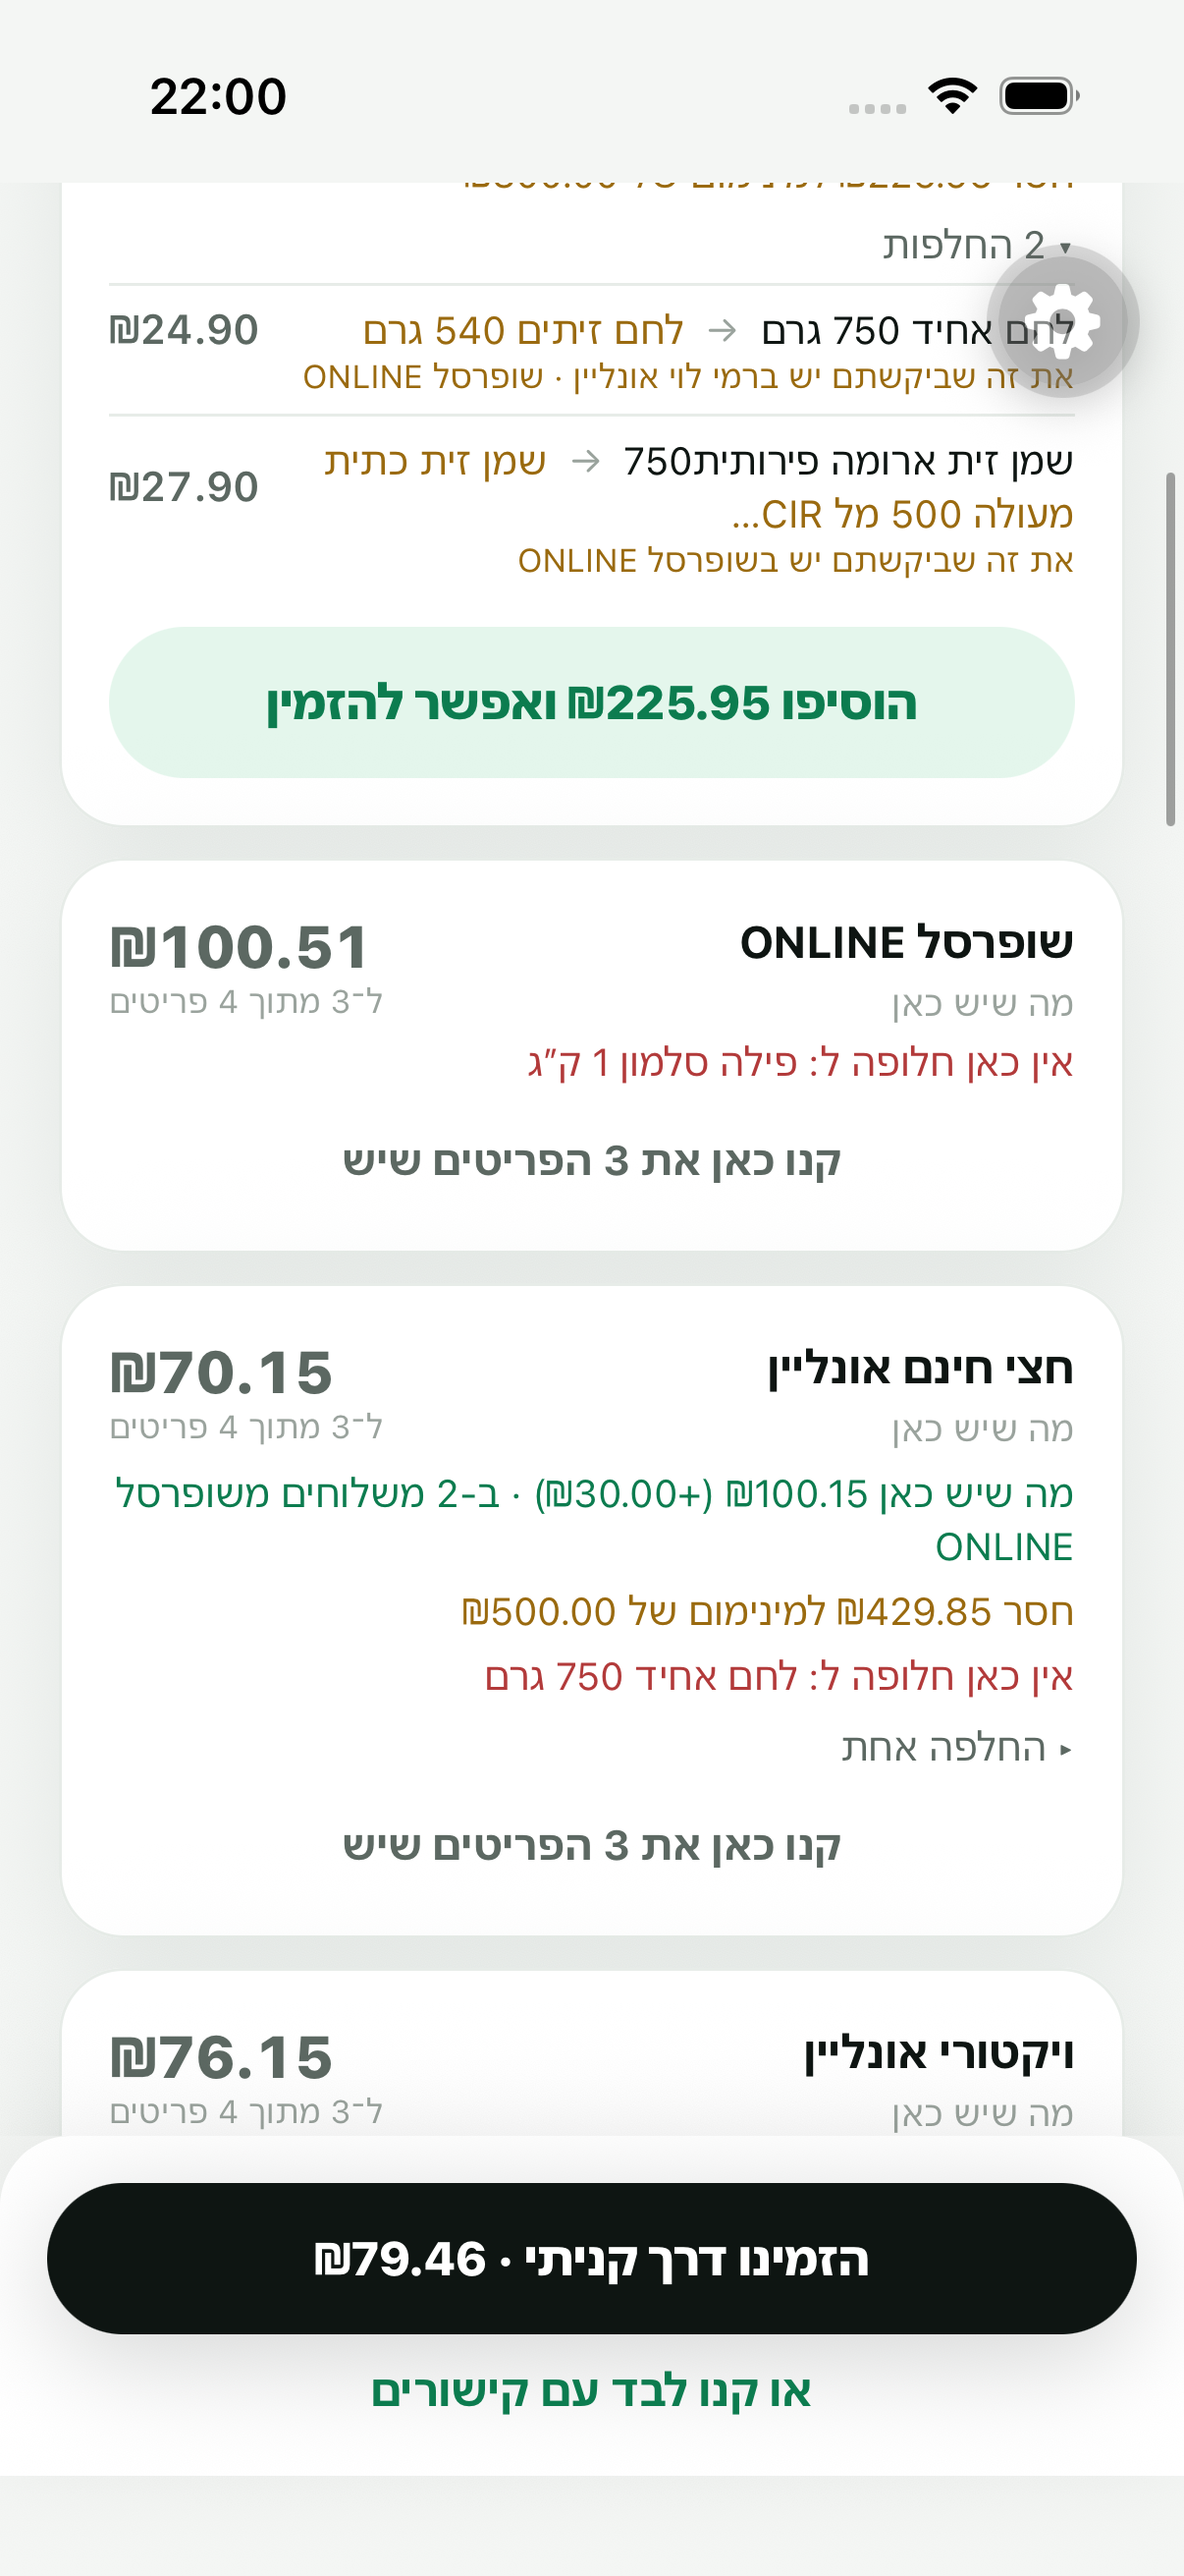
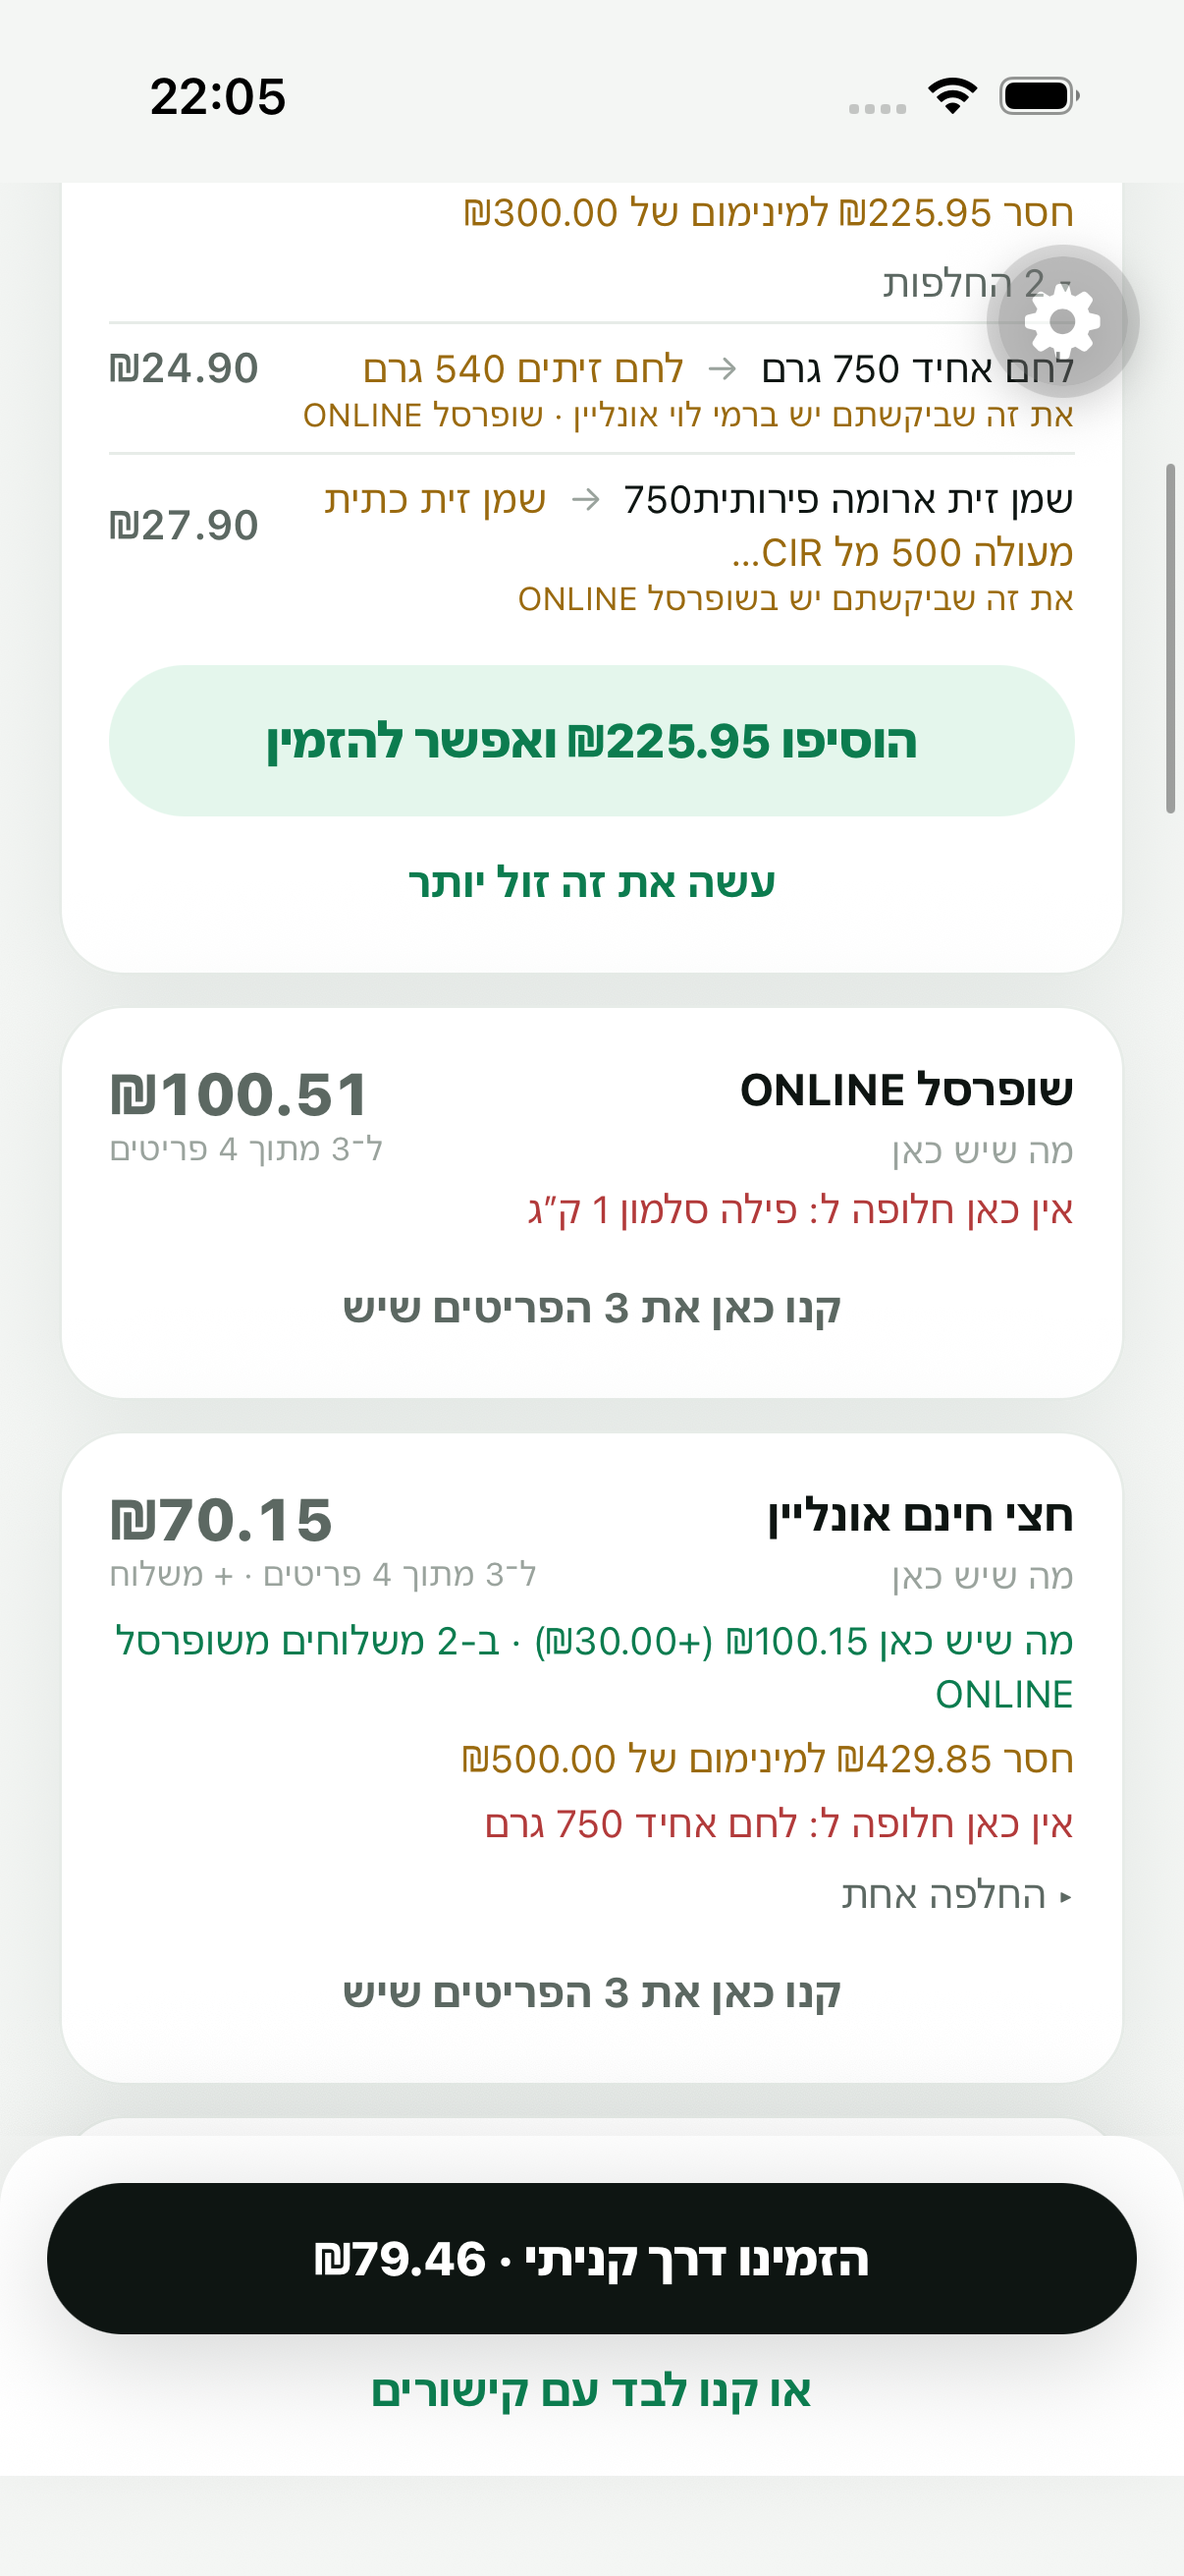
The four screenshots from the green run, and what the build taught in the backlog

diff --git a/docs/backlog/app-designer.md b/docs/backlog/app-designer.md
@@ -70,15 +70,24 @@ proof lives. The whole list, and what it means, is `docs/BACKLOG.md`.
   appears only when a pinned line was swapped, and the cheapest full basket (Rami Levy ₪134.89)
   contains an oil the family did not choose while their own is at a store costing ₪173.10. That single
   line is the whole design in miniature and is worth keeping as the demo.
-- **A delivery fee is only in the response for stores that became options.** Every other card's number
-  is therefore items-only and says "+ משלוח" in muted ink. One field — `storefronts[sid].deliveryFee`
-  — turns eight of the twelve cards into delivered totals that may sit in one column. It is the
-  highest-value thing **api-fixer** can add for this screen, above the full/exact totals themselves.
-- **"עשה את זה זול יותר" is built but dark.** The card shows the action only when
-  `quote.cheaper[sid]` exists: an empty array is "the engine looked and found nothing" (a sentence),
-  and an absent key is "nobody has looked" (no button). A button that does nothing is worse than no
-  button, and this way the action lights up on its own the day the engine answers — no screen change.
-  The unit tests cover both branches already.
+- **The engine half landed mid-build (#116, #117) and the cards read it with no change.** The
+  contract this design wrote out — `storefronts[sid].{deliveryFee,minimumOrder,fullBasket,exactBasket}`
+  and `storefrontLines[…].lineTotal` — is what api-fixer shipped, field for field, so the exact
+  basket, its difference in shekels and its second delivery went live on the phone the moment main
+  merged. Writing the wire shape into the design before building it is what made that possible; it is
+  worth doing again.
+- **But the live contract exposed a real bug in the card, and it is the exact bug this module exists
+  to prevent.** The engine returns a `fullBasket.total` for *every* store it can price, and for a
+  store whose delivery fee it does not have, that total **is** the items subtotal — ויקטורי comes back
+  with `total` and `items` both ₪133.90 and no `deliveryFee` at all. The card read "a total arrived"
+  as "a delivered total arrived" and put an items-only number in the delivered column. `delivered` now
+  follows the **fee**, never the total, with a regression test naming ויקטורי. Lesson: a field being
+  present is not the same fact as the thing it is named after.
+- **"עשה את זה זול יותר" is `POST /households/:id/cheaper`, not a field on the quote.** So nobody has
+  looked until the family taps: the action is offered on any card with a basket to cheapen, says
+  `מחפשים זול יותר בחנות הזו…` while it asks, and reports `לא נמצא כאן זול יותר` in place when the
+  store had nothing of the same kind and size for less. The answer is kept per store so the undo and a
+  second tap cost nothing.
 - **The first thing the finished card found was a bad substitute.** On the simulator run, Tiv Taam
   swapped **לחם אחיד → לחם זיתים 540 גרם** — olive bread for plain sliced bread, which is not the same
   kind of thing, and the family would have found it in the basket. It is on the card now, named, in
